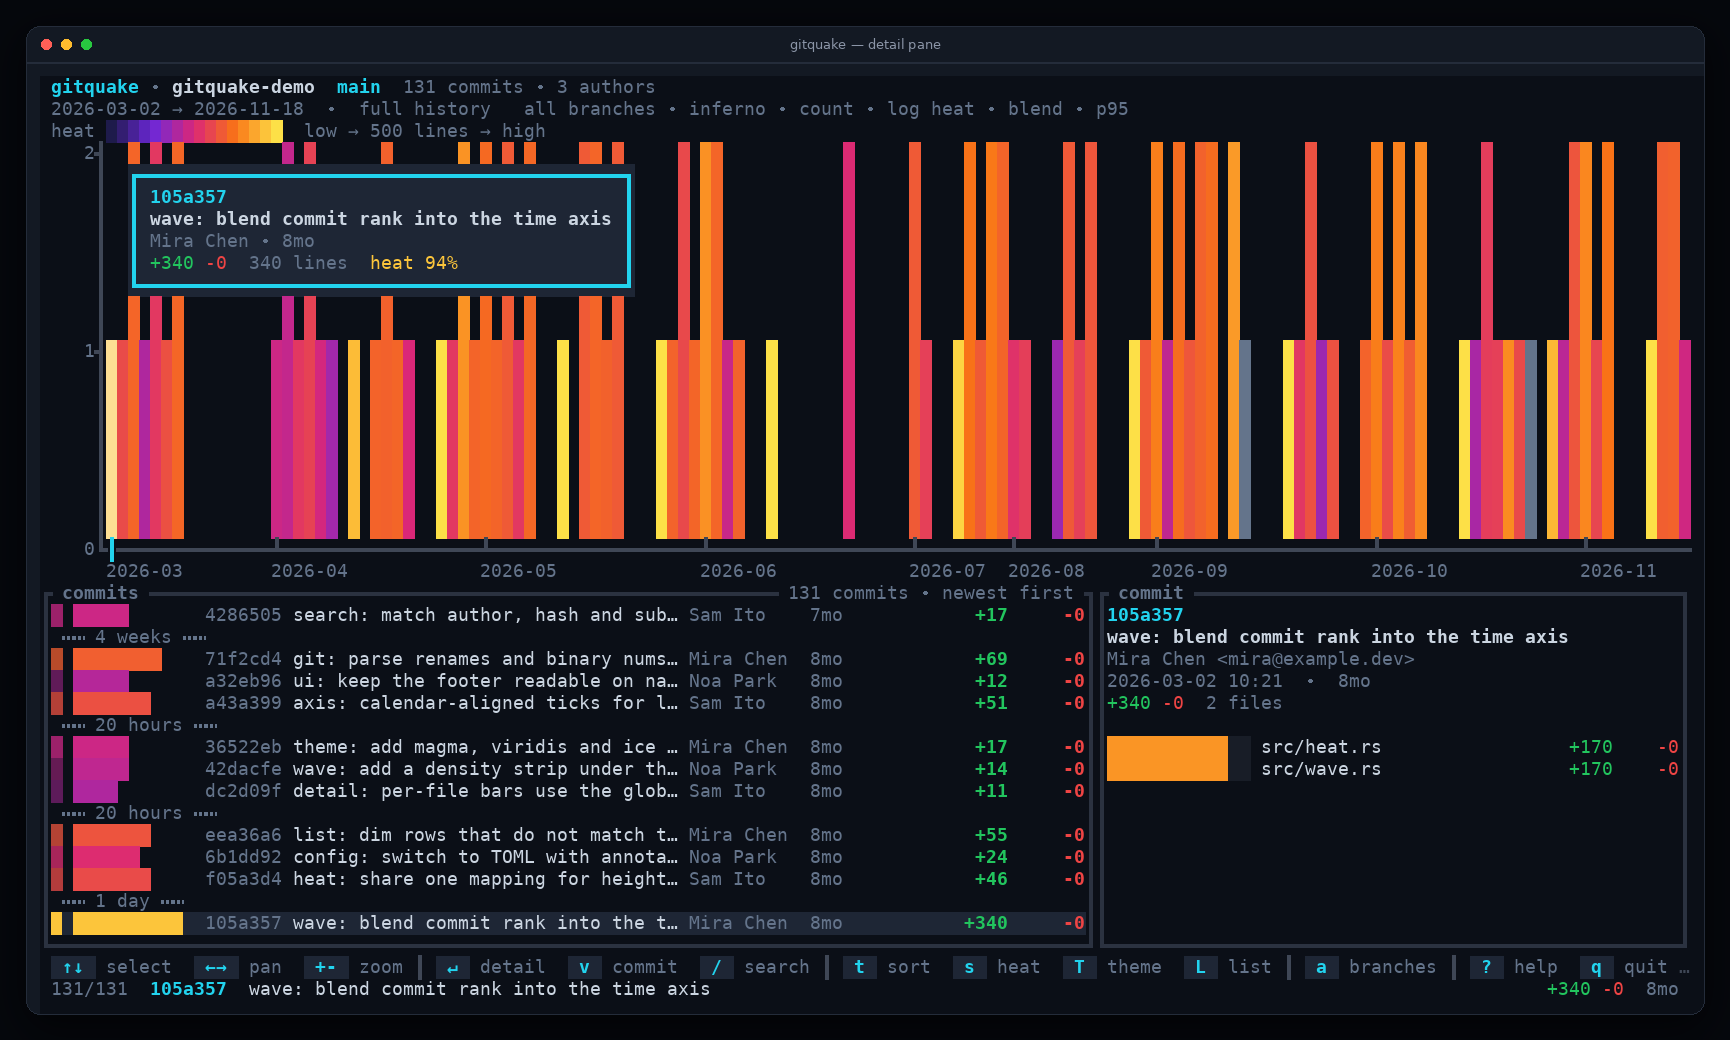
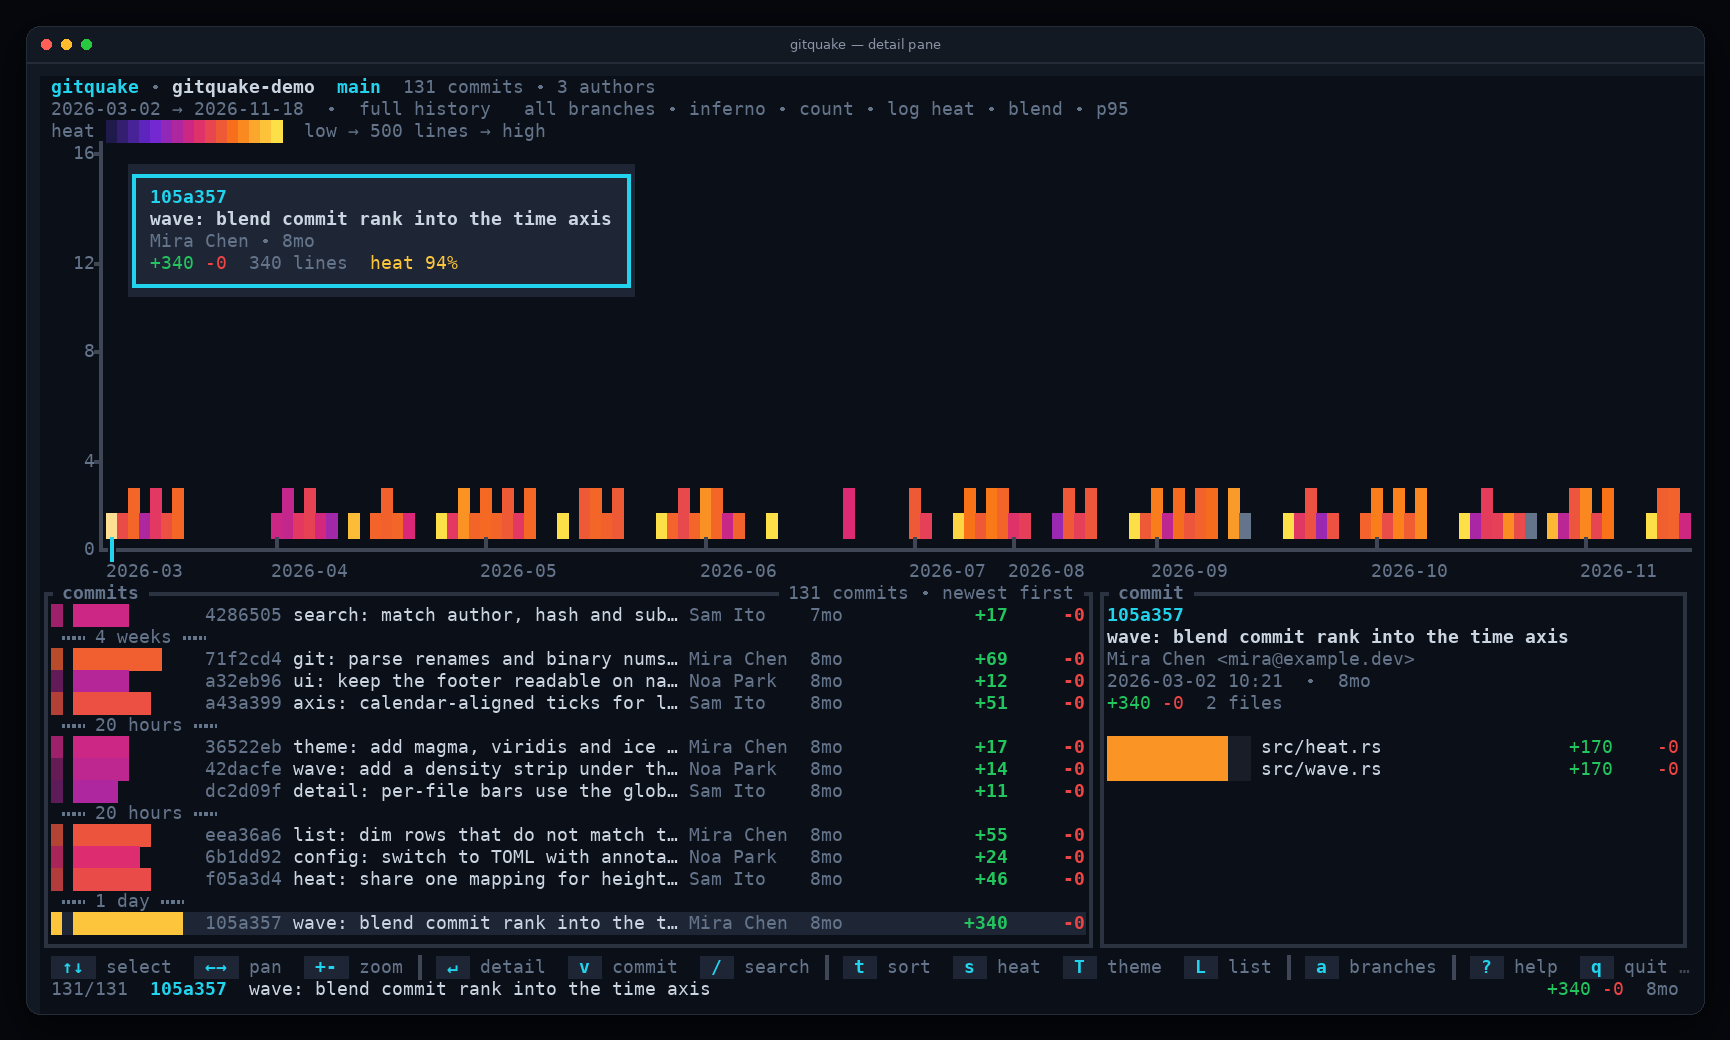
feat: use eighth-root bands for count height

diff --git a/src/stats.rs b/src/stats.rs
@@ -109,62 +109,83 @@ pub struct Bucket {
     pub commit: Option<usize>,
 }
 
-/// Piecewise-linear scale for commit counts.
+/// Scale for commit counts in the visible waveform.
 ///
-/// Bands are powers of two (`0-1`, `1-2`, `2-4`, `4-8`, ...), and every band
-/// receives the same amount of vertical space. This keeps 100 and 150 commits
-/// visibly apart instead of letting a smooth saturation curve flatten them.
-/// Only the largest count among the visible columns is needed.
+/// A quiet window is always allowed to use a 1–16 range, so a column with one
+/// commit stays near the baseline instead of filling the pane. Once the visible
+/// maximum is above 16, the scale switches to eight geometric bands. With a
+/// maximum of 256 the eighth root is 2, giving the thresholds
+/// `2, 4, 8, 16, 32, 64, 128, 256`: one increment of bar height per threshold.
+/// The top eight thresholds therefore map onto the eight eighth-block levels.
 #[derive(Debug, Clone)]
 pub struct CountScale {
     breaks: Vec<u64>,
+    linear: bool,
 }
 
 impl CountScale {
-    /// Build a scale anchored to the values that are actually visible.
-    ///
-    /// The first band runs from `0` to the smallest non-zero bucket, then the
-    /// breakpoints double up to the largest bucket. A three-month window with
-    /// 50–150 commits per column therefore uses `0–50–100–150`, while a wider
-    /// window with 1–150 uses `0–1–2–4–…–150`. Same code, different range,
-    /// different resolution.
-    pub fn with_range(min_count: u64, max_count: u64) -> CountScale {
+    /// Build a scale from the largest count found in the visible window.
+    pub fn from_max(max_count: u64) -> CountScale {
         let max = max_count.max(1);
-        let min = min_count.max(1).min(max);
-        let mut breaks = vec![0u64, min];
-        let mut next = min.saturating_mul(2);
-        while next > min && next < max {
-            breaks.push(next);
-            next = next.saturating_mul(2);
+        if max <= 16 {
+            return CountScale {
+                breaks: vec![0, 16],
+                linear: true,
+            };
         }
-        if breaks.last().copied() != Some(max) {
-            breaks.push(max);
+
+        // The eighth root is the per-band multiplier: root^1 .. root^8 spans
+        // the whole range in eight equal-height steps. Rounding keeps the axis
+        // labels readable while preserving the geometric growth.
+        let root = (max as f64).powf(1.0 / 8.0);
+        let mut breaks = vec![0u64];
+        for i in 1..=8 {
+            let raw = if i == 8 {
+                max
+            } else {
+                root.powi(i).round() as u64
+            };
+            let previous = *breaks.last().expect("breaks always has an origin");
+            let value = raw.max(previous + 1).min(max);
+            breaks.push(value);
         }
-        CountScale { breaks }
+        breaks[8] = max;
+        CountScale {
+            breaks,
+            linear: false,
+        }
     }
 
-    /// Map a count in `0..=max_count` to `0..=1`.
+    /// Map a count in `0..=max` to `0..=1`.
     pub fn height(&self, count: u64) -> f64 {
         if count == 0 {
             return 0.0;
         }
+
         let max = *self.breaks.last().unwrap_or(&1);
         let count = count.min(max);
-        let bands = (self.breaks.len() - 1) as f64;
-        let band = (self.breaks.partition_point(|&b| b <= count) - 1).min(self.breaks.len() - 2);
-        let lo = self.breaks[band];
-        let hi = self.breaks[band + 1];
-        let frac = if hi > lo {
-            (count - lo) as f64 / (hi - lo) as f64
-        } else {
-            1.0
-        };
-        ((band as f64 + frac) / bands).clamp(0.0, 1.0)
+        if self.linear {
+            return (count as f64 / max as f64).clamp(0.0, 1.0);
+        }
+
+        // Every band is one eighth of the height. `partition_point` returns the
+        // first threshold at or above the count, which is exactly the band the
+        // count belongs to (the first band also holds counts from 1 to root).
+        let band = self.breaks.partition_point(|&b| b < count);
+        (band as f64 / 8.0).clamp(0.0, 1.0)
     }
 
-    /// Count values at the band boundaries, including zero and the visible max.
-    pub fn steps(&self) -> &[u64] {
-        &self.breaks
+    /// Count values and their exact height fractions, from the origin upwards.
+    pub fn steps(&self) -> Vec<(u64, f64)> {
+        if self.linear {
+            let max = *self.breaks.last().unwrap_or(&16);
+            return (0..=4).map(|i| (max * i / 4, i as f64 / 4.0)).collect();
+        }
+        self.breaks
+            .iter()
+            .enumerate()
+            .map(|(i, &count)| (count, i as f64 / 8.0))
+            .collect()
     }
 }
 
@@ -607,45 +628,53 @@ mod tests {
     }
 
     #[test]
-    fn count_scale_separates_large_counts() {
-        let scale = CountScale::with_range(1, 150);
-        assert_eq!(scale.height(0), 0.0);
-        assert!((scale.height(150) - 1.0).abs() < 1e-9);
-        assert!(scale.height(100) > scale.height(64));
-        assert!(scale.height(128) > scale.height(100));
-        assert!(scale.height(150) > scale.height(128));
-        // 100 and 150 must not collapse onto the same row.
-        assert!(scale.height(150) - scale.height(100) > 0.1);
-
-        let wide = CountScale::with_range(1, 10_000);
-        assert!(wide.height(150) > wide.height(100));
-        assert!(wide.height(150) - wide.height(100) > 0.01);
-    }
-
-    #[test]
-    fn count_scale_reanchors_on_the_visible_range() {
-        let wide = CountScale::with_range(1, 150);
-        let narrow = CountScale::with_range(50, 150);
-        assert_eq!(narrow.steps(), &[0, 50, 100, 150]);
-        assert!((narrow.height(50) - 1.0 / 3.0).abs() < 1e-9);
-        assert!((narrow.height(100) - 2.0 / 3.0).abs() < 1e-9);
-        assert_eq!(narrow.height(150), 1.0);
-        // The visible range is expanded, not squeezed by all the quiet columns
-        // that are outside the window.
-        assert!(
-            narrow.height(100) - narrow.height(50) > wide.height(100) - wide.height(50),
-            "narrow={:?} wide={:?}",
-            narrow.steps(),
-            wide.steps()
+    fn count_scale_uses_eight_geometric_bands() {
+        let scale = CountScale::from_max(256);
+        let steps = scale.steps();
+        assert_eq!(
+            steps.iter().map(|(c, _)| *c).collect::<Vec<_>>(),
+            vec![0, 2, 4, 8, 16, 32, 64, 128, 256]
         );
+        assert_eq!(scale.height(0), 0.0);
+        assert_eq!(scale.height(1), 1.0 / 8.0);
+        assert_eq!(scale.height(2), 1.0 / 8.0);
+        assert_eq!(scale.height(3), 2.0 / 8.0);
+        assert_eq!(scale.height(64), 6.0 / 8.0);
+        assert_eq!(scale.height(100), 7.0 / 8.0);
+        assert_eq!(scale.height(150), 1.0);
+        assert_eq!(scale.height(256), 1.0);
+        assert_eq!(scale.height(9_999), 1.0);
     }
 
     #[test]
-    fn count_scale_handles_tiny_maxima() {
-        assert_eq!(CountScale::with_range(0, 0).height(0), 0.0);
-        assert!((CountScale::with_range(1, 1).height(1) - 1.0).abs() < 1e-9);
-        assert!((CountScale::with_range(1, 2).height(1) - 0.5).abs() < 1e-9);
-        assert!((CountScale::with_range(1, 3).height(2) - 2.0 / 3.0).abs() < 1e-9);
+    fn count_scale_reanchors_on_the_visible_maximum() {
+        // A quiet window spends its eight bands on a small range, so the same
+        // count is higher there than in a window with a large maximum.
+        let quiet = CountScale::from_max(17);
+        let busy = CountScale::from_max(10_000);
+        assert!(quiet.height(9) > busy.height(9));
+        assert_eq!(quiet.height(17), 1.0);
+        assert_eq!(busy.height(10_000), 1.0);
+        assert_eq!(quiet.steps().first().map(|(c, _)| *c), Some(0));
+        assert_eq!(quiet.steps().last().map(|(c, _)| *c), Some(17));
+        assert_eq!(busy.steps().last().map(|(c, _)| *c), Some(10_000));
+    }
+
+    #[test]
+    fn count_scale_uses_a_sixteen_commit_floor_for_quiet_windows() {
+        for max in [0, 1, 2, 8, 16] {
+            let scale = CountScale::from_max(max);
+            assert_eq!(scale.height(0), 0.0);
+            assert_eq!(
+                scale.steps(),
+                vec![(0, 0.0), (4, 0.25), (8, 0.5), (12, 0.75), (16, 1.0)]
+            );
+        }
+        assert_eq!(CountScale::from_max(1).height(1), 1.0 / 16.0);
+        assert_eq!(CountScale::from_max(8).height(8), 0.5);
+        assert_eq!(CountScale::from_max(16).height(16), 1.0);
+        // Above the floor the geometric scale takes over.
+        assert_eq!(CountScale::from_max(17).height(1), 1.0 / 8.0);
     }
 
     fn bare_commit(timestamp: i64) -> Commit {

diff --git a/README.md b/README.md
@@ -108,14 +108,13 @@ slice. Heights are drawn with eighth blocks (`▁▂▃▄▅▆▇█`) for sub
 labelled y-axis on the left shows the count at each band boundary, from `0` up to the
 largest visible column.
 
-Counts use a piecewise scale that is rebuilt for the current view. The first band runs
-from `0` to the smallest non-zero column, then bands double up to the largest column.
-Every band gets the same vertical space, with a linear ramp inside the band. A
-six-month view might use `0–1–2–4–…–150`, while a three-month view whose columns all
-hold 50–150 commits uses `0–50–100–150`; the same code rediscovers where the highs and
-lows are instead of inheriting a flat global scale. That also keeps `100` and `150`
-visibly different instead of flattening near the top of a smooth curve. Only visible
-columns are measured, so zooming or panning never pays for history that is off screen.
+Counts use a scale that is rebuilt for the current view. A window whose busiest column
+holds at most 16 commits uses that 1–16 range linearly, so sparse history does not fill
+the pane. Above 16, the maximum is spread over eight geometric bands: the eighth root of
+the maximum is the multiplier, so 256 produces `2, 4, 8, 16, 32, 64, 128, 256`. Each
+band is one eighth of the height. Only visible columns are measured, so zooming,
+panning or resizing rediscovers the local highs and lows without paying for history that
+is off screen.
 
 Colour is a separate value: the sum of `insertions + deletions` for every commit in
 the column, interpolated over the theme's five-stop heat ramp and normalised against
@@ -176,16 +175,19 @@ git show --stat <hash>   # summary only
 ### Height — commits per column
 
 - Commits are bucketed into terminal columns using the current axis projection.
-- After bucketing, `CountScale` makes one pass over the **visible** buckets to find
-  the smallest non-zero count and the largest count. The first band runs from `0` to
-  the smallest count, then the breakpoints double up to the maximum. Each band gets an
-  equal share of the waveform height.
-- Within a band the height is linear, so values close together inside a band remain
-  distinguishable. With a visible range of 1–150, a column of 100 commits sits around
-  84% of full height and 150 reaches 100%. With a visible range of 50–150, the bands
-  become `0–50–100–150`, so the same column is clearly in the upper half.
-- Off-screen commits are excluded from the bucket loop, the min/max pass and the axis,
-  so zooming stays cheap even in a very large repository.
+- After bucketing, `CountScale` walks the **visible** buckets once, sorts their counts
+  and takes the largest count. This step is repeated whenever the time window or the
+  terminal width changes, so the scale always describes what is on screen.
+- A quiet window uses a 1–16 range, linearly: one commit is 1/16 of the pane, eight
+  commits are half, and sixteen commits fill it. This keeps sparse histories from
+  drawing every bar at full height.
+- Above 16 the maximum is spread over eight geometric bands. The eighth root of the
+  maximum is the band multiplier: a maximum of 256 gives the thresholds
+  `2, 4, 8, 16, 32, 64, 128, 256`, so counts up to 2 are one eighth high, up to 4 are
+  two eighths, and so on. The top eight thresholds line up with the terminal's eighth
+  blocks, so neighbouring bands are visibly different.
+- Off-screen commits are excluded from the bucket loop, the max pass and the axis, so
+  zooming stays cheap even in a very large repository.
 
 ### Colour — change volume per column
 
